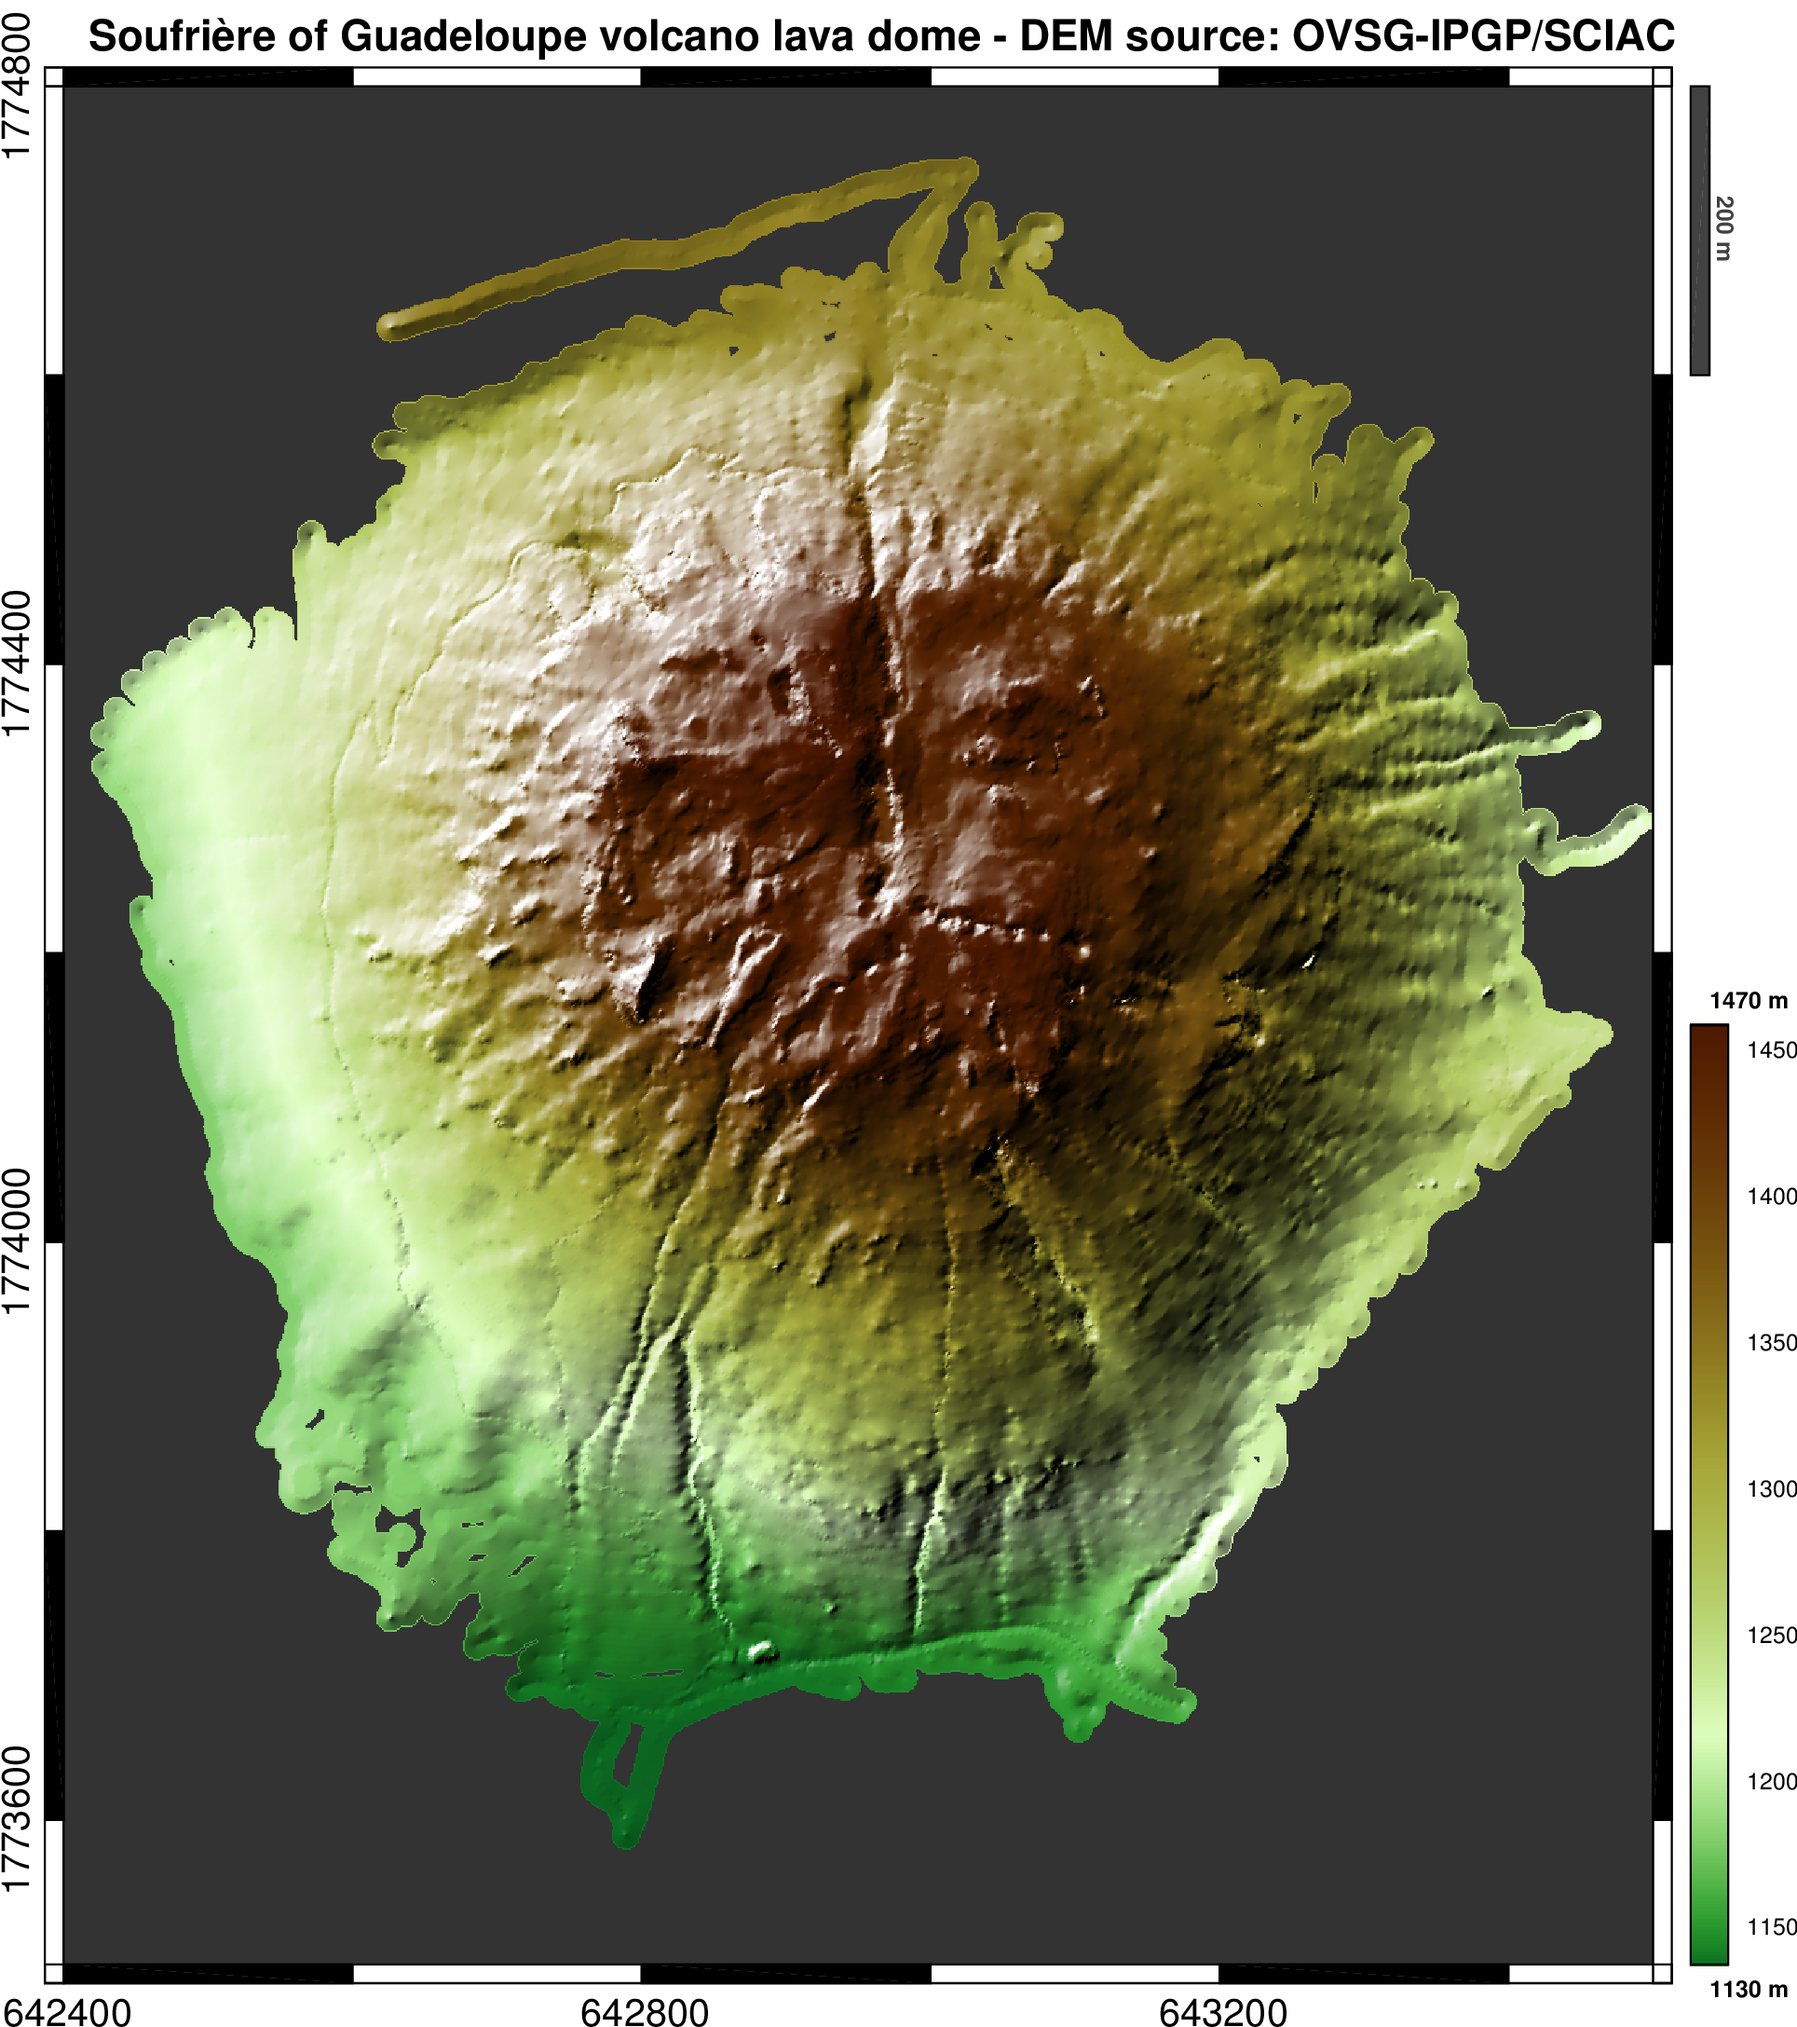
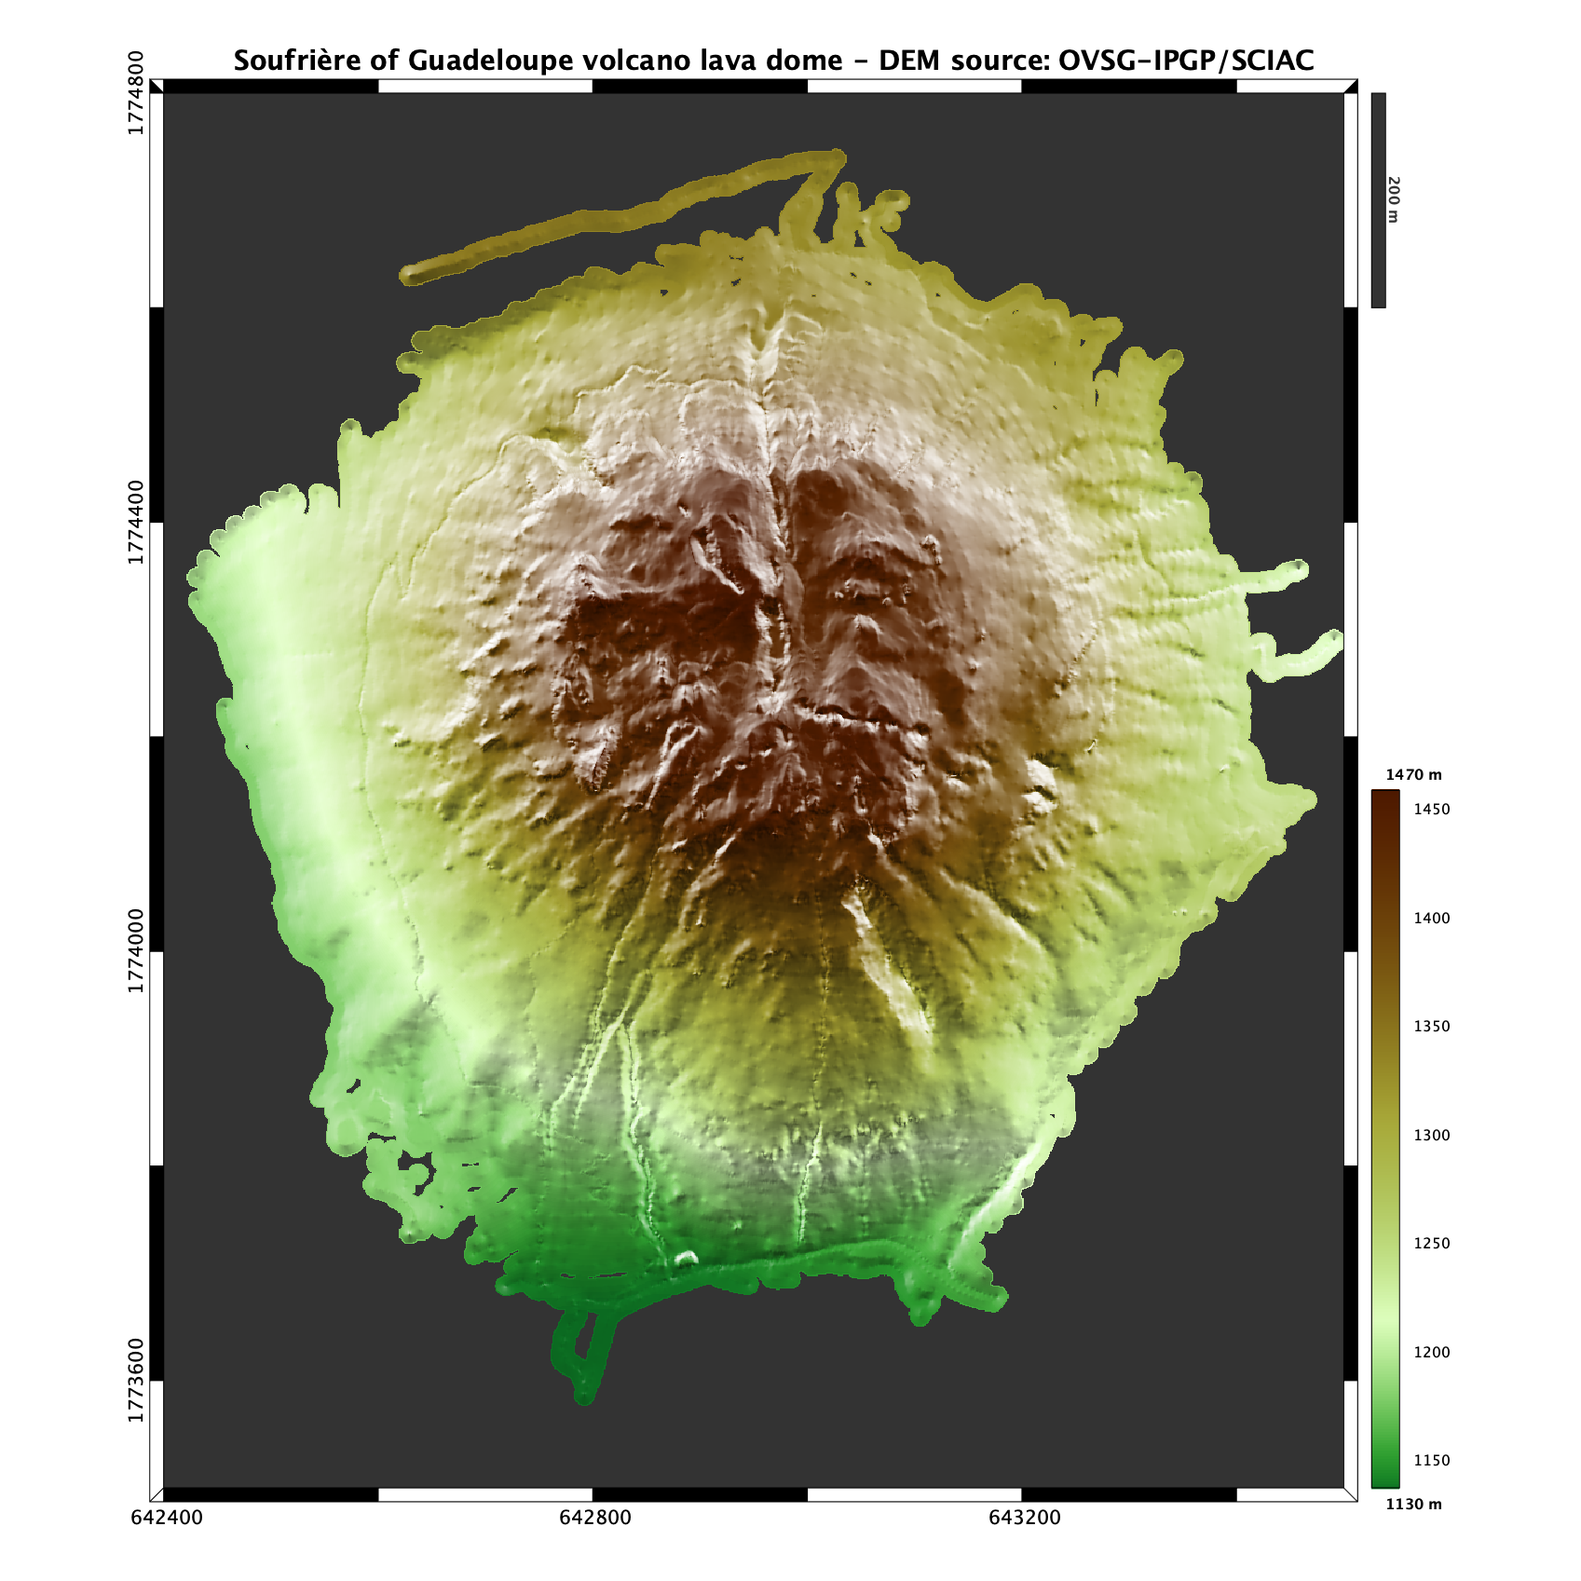
new options for dem.m + updated README

diff --git a/dem/README.md b/dem/README.md
@@ -9,21 +9,24 @@ This may be useful to produce high-quality and moderate-size Postscript image ad
 
 ## Examples
 
-Moon North Pole using the bone colormap and high contrast lighting (DEM source: raster LRO/LOLA LTVT)
+Moon North Pole using the bone colormap (`'colormap','bone'`), single light source northwest (`'azimuth',-45`) and high contrast lighting using 0.2% median filter (`'lcut',.2`). DEM source: raster LRO/LOLA LTVT.
 
 ![](dem_example_moon_bone.png)
 
-Indonesia archipelago using default colormaps, 'dms' axis basemap and legend scales (DEM source: raster NOAA/NGDC ETOPO1)
+Indonesia archipelago using default land/sea colormaps, lower saturation value (`'saturation',0.5`), lat/lon axis basemap (`'latlon'`) and legend scales (`'legend'`). DEM source: raster NOAA/NGDC ETOPO1.
 
 ![](dem_example_indonesia.png)
 
-Soufrière of Guadeloupe volcano lava dome: 1-m resolution with NaN values (DEM source: OVSG-IPGP/SCIAC)
+Soufrière of Guadeloupe volcano lava dome: 1-m resolution containing NaN values, two light sources (`'azimuth',[-45,45]` which is the default), cartesian basemap axes (`'cartesian'`). DEM source: OVSG-IPGP/SCIAC 2001.
 
 ![](dem_example_dome.png)
 
+Comparison of the two available shading methods on the Guadeloupe archipelago using roma reversed colormap (`'landcolor',flipud(roma)`): *(left)* uses the default light method (`'shading','light'`), *(right)* stack/transparency method (`'shading','stack'`) with default opacity value of 50% (`'opacity',.5`). DEM source: SRTM/NASA 2001.
+
+![](dem_example_guadeloupe.png)
 
 ## Author
-**François Beauducel**, [IPGP](www.ipgp.fr), [beaudu](https://github.com/beaudu), beauducel@ipgp.fr 
+**François Beauducel**, [IPGP](www.ipgp.fr), [beaudu](https://github.com/beaudu), beauducel@ipgp.fr
 
 ## Documentation
-See "doc dem" for syntax, examples and help. See also the READHGT function from same author.
+See "doc dem" for syntax, examples and help. See also the [READHGT](../readhgt/) function from same author.
